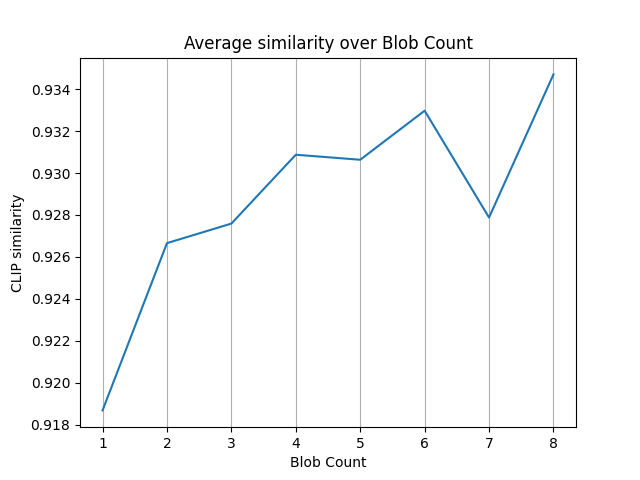
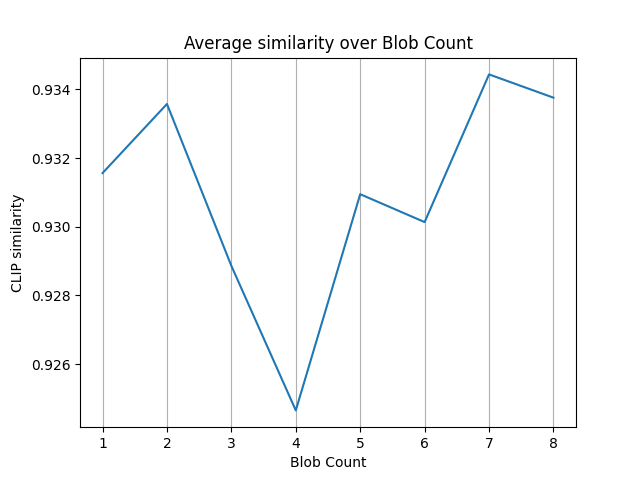
Add plot code and images

diff --git a/main.py b/main.py
@@ -454,10 +454,10 @@ class ColourPoint(Blob):
         else:
             self.colour = [255 * random.random() for i in range(3)]
 
-    def random_mutate(self, temp):
-        super().random_mutate(temp, len(self.representation))
+    def random_mutate(self, temp, blobCount):
+        super().random_mutate(temp, blobCount)
 
-        if self.colour_fixed:
+        if not self.colour_fixed:
             for i in range(len(self.colour)):
                 step = int(255 * temp * self.tempAdjust * 2 * (random.random()-0.5))
                 self.colour[i] = min(max(0,self.colour[i] + step), 255)
@@ -540,8 +540,11 @@ class LocalSearchMethod():
         self.history = []
         self.best_history = []
         self.best_representation = None
+        
+        self.best_points_iteration = []
+        self.best_points_score = []
 
-    def update_best(self, representation=None, score=None, image=None, image_path=None):
+    def update_best(self, iteration, representation=None, score=None, image=None, image_path=None):
         if score == None:
             score = self.score
 
@@ -555,10 +558,15 @@ class LocalSearchMethod():
             self.best_score = score
             self.best_history.append(image)
 
+            self.best_points_iteration.append(iteration)
+            self.best_points_score.append(score)
+
             if image_path:
                 image.save(f"{image_path}/best.png","PNG")
 
     def save_history(self, name, path):
+
+        os.makedirs(f"images/{path}", exist_ok=True)
 
         self.history[0].save(f"images/{path}/{name}_GIF.gif", 
                 save_all = True, append_images = self.history[1:], 
@@ -589,7 +597,7 @@ class SimulatedAnnealing(LocalSearchMethod):
         mutationStrategy = self.mutationStrategy
         image = mutationStrategy.render_image()
         self.score = self.scoringSystem.score_image(image)
-        self.update_best(image=image, image_path=image_path)
+        self.update_best(0, image=image, image_path=image_path)
 
         initial_score = self.best_score
 
@@ -631,7 +639,7 @@ class SimulatedAnnealing(LocalSearchMethod):
             self.history.append(image)
             
             if self.score > self.best_score:
-                self.update_best(image=image, image_path=image_path)
+                self.update_best(i, image=image, image_path=image_path)
                 print(f"{i} {self.best_score}")
             
             if image_path:
@@ -714,7 +722,7 @@ def random_nouns(size):
     print(chosen_nouns)
     return chosen_nouns
 
-def mds(strategies, name, sample_size=32):
+def mds(name, strategies, strategyNames, sample_size=32):
     # https://www.geeksforgeeks.org/machine-learning/sklearn-multi-dimensional-scaling-mds-python-implementation-from-scratch/
 
     # Load a sample dataset (e.g., the digits dataset)
@@ -745,8 +753,13 @@ def mds(strategies, name, sample_size=32):
 
     # Visualize the reduced data
     plt.figure(figsize=(8, 6))
-    plt.scatter(X_reduced[:, 0], X_reduced[:, 1], c=legend, cmap=plt.cm.get_cmap("jet", max(legend) + 1))
-    plt.colorbar(label='Encoding source', ticks=range(10))
+
+    plt.scatter(X_reduced[0:sample_size, 0], X_reduced[0:sample_size, 1], label="Text")
+
+    for (i, strategyName) in enumerate(strategyNames):
+        plt.scatter(X_reduced[(i+1) * sample_size:(i+2) * sample_size, 0], X_reduced[(i+1) * sample_size:(i+2) * sample_size, 1], label=strategyName)
+    
+    plt.legend(loc='best')
     plt.title("MDS Visualization of Random Images from Each Representations")
     plt.xlabel("MDS Dimension 1")
     plt.ylabel("MDS Dimension 2")
@@ -754,14 +767,14 @@ def mds(strategies, name, sample_size=32):
     plt.savefig(f"plots/mds--{name}.png")
     plt.show()
 
-def plot_avg_similarity_over_parameter(name, mutationStrategiesMap, parameters):
+def plot_avg_similarity_over_parameter(name, mutationStrategiesMap, parameters, samples=256):
     scoreSystem = EmbeddingsScoring("clip-ViT-B-32")
     
     means = []
 
     for p in parameters:
         mutationStrategy = mutationStrategiesMap(p)
-        sample = sample_distances(mutationStrategy, scoreSystem, samples=128, sample_size=1, temp=1)
+        sample = sample_distances(mutationStrategy, scoreSystem, samples=samples, sample_size=1, temp=1)
         means.append(statistics.mean(sample))
         print(f"{p}) mean: {statistics.mean(sample)}, stdev: {statistics.stdev(sample)}")
 
@@ -800,6 +813,74 @@ def plot_annealing_over_parameter(name, mutationStrategiesMap, parameters, itera
     plt.grid(axis = 'x')
 
     plt.savefig(f"plots/{name.replace(' ', '_')}--annealing.png")
+
+def race(name, strategies, strategyNames, prompt=None, iterations=500):
+
+    scoreSystem = EmbeddingsScoring("clip-ViT-B-32")
+
+    if prompt == None:
+        prompt = random_nouns(1)[0]
+
+    for i, strategy in enumerate(strategies):
+        scores = []
+
+        scoreSystem.set_goal_text(prompt)
+        localSearch = SimulatedAnnealing(strategy, scoreSystem)
+        localSearch.search(alpha=0.99, max_iterations=iterations)
+        localSearch.save_history(strategyNames[i], f"race/{name}-{prompt}")
+
+        plt.plot(localSearch.best_points_iteration, localSearch.best_points_score, label=strategyNames[i])
+        plt.scatter(localSearch.best_points_iteration, localSearch.best_points_score)
+    
+    plt.title(f"Comparison of annealing for word '{prompt}' after {iterations} iterations")
+    plt.xlabel(f"Iteration")
+    plt.ylabel("CLIP similarity")
+    plt.grid(axis = 'x')
+    plt.legend(loc='best')
+
+    plt.savefig(f"plots/annealing_race--{name}-{prompt}.png")
+
+def anneal_boxplot(name, strategies, strategyNames, iterations=500, sample_size=16):
+    scoreSystem = EmbeddingsScoring("clip-ViT-B-32")
+
+    nouns = random_nouns(sample_size)
+
+    strategyScores = []
+    for i, strategy in enumerate(strategies):
+        scores = []
+        for noun in nouns:
+            scoreSystem.set_goal_text(noun)
+            localSearch = SimulatedAnnealing(strategy, scoreSystem)
+            localSearch.search(alpha=0.99, max_iterations=iterations)
+            scores.append(localSearch.best_score)
+        strategyScores.append(scores)
+    
+    plt.boxplot(strategyScores, labels=strategyNames)
+
+    plt.title(f"Similarity after {iterations} iterations")
+    plt.xlabel(f"{name}")
+    plt.ylabel("CLIP similarity")
+    plt.grid(axis = 'x')
+
+    plt.savefig(f"plots/{name.replace(' ', '_')}--boxplot.png")
+
+def simmilarity_boxplot(name, strategies, strategyNames, sample_size=128):
+    scoreSystem = EmbeddingsScoring("clip-ViT-B-32")
+
+    strategyScores = []
+    for strategy in strategies:
+        sample = sample_distances(strategy, scoreSystem, samples=sample_size, sample_size=1, temp=1)
+        strategyScores.append(sample)
+    
+    plt.boxplot(strategyScores, labels=strategyNames)
+
+    plt.title(f"Comparison of similarity distributions within each representation")
+    plt.xlabel(f"{name}")
+    plt.ylabel("CLIP similarity")
+    plt.grid(axis = 'x')
+
+    plt.savefig(f"plots/{name.replace(' ', '_')}--similarity-boxplot.png")
+
 
 if __name__ == '__main__':
     command = sys.argv[1]
@@ -939,32 +1020,50 @@ if __name__ == '__main__':
 
     elif command == "blob_annealing_over_p":
         mutationStrategiesMap = lambda p: MoveBlobsStrategy(128, 128, p, white, recenter=True)
-        counts = [1, 2, 3, 4, 5, 6, 7, 8]
+        counts = [1, 6, 11, 16, 21, 26]
 
         plot_annealing_over_parameter("Blob Count", mutationStrategiesMap, counts)
 
-    elif command == "mds":
+    elif command == "compare":
+        strategyOption = sys.argv[2]
+        comparisonOption = sys.argv[3]
+
+        if strategyOption == "all":
+            strategies = [
+                RandomPixelFlipStrategy(128, 128),
+                MoveBlobsStrategy(128, 128, 4, white, recenter=True),
+                ColourStripesStrategy(128, 128, 4),
+                ColourBlobs(128, 128, 4)
+            ]
+            names = [
+                "Black-white pixels",
+                "Blobs",
+                "Stripes",
+                "Colour boundaries"
+            ]
+
+        elif strategyOption == "stripes":
+            counts = [1, 2, 3, 4, 5, 6, 7, 8]
+            strategies = [ColourStripesStrategy(128, 128, count) for count in counts]
+            names = [f"{count} stripes" for count in counts]
+
+        elif strategyOption == "blobs":
+            counts = [1, 2, 3, 4, 5, 6, 7, 8]
+            strategies = [MoveBlobsStrategy(128, 128, count, white, recenter=True) for count in counts]
+            names = [f"{count} blobs" for count in counts]
+
+        if comparisonOption == "mds":
+            mds(strategyOption, strategies, names)
         
-        strategies = [
-            RandomPixelFlipStrategy(128, 128),
-            MoveBlobsStrategy(128, 128, 5, white, recenter=True),
-            ColourStripesStrategy(128, 128, 5),
-            ColourBlobs(128, 128, 5)
-        ]
+        elif comparisonOption == "race":
+            prompt = sys.argv[4]
+            race(strategyOption, strategies, names, prompt=prompt)
 
-        mds(strategies, "all")
+        elif comparisonOption == "anneal_boxplot":
+            anneal_boxplot(strategyOption, strategies, names, iterations=500)
 
-    elif command == "stripe-mds":
-        counts = [1, 2, 3, 4, 5, 6, 7, 8]
-        strategies = [ColourStripesStrategy(128, 128, count) for count in counts]
-
-        mds(strategies, "stripe counts")
-
-    elif command == "blobs-mds":
-        counts = [1, 2, 3, 8, 16, 32, 64]
-        strategies = [MoveBlobsStrategy(128, 128, count, white, recenter=True) for count in counts]
-
-        mds(strategies, "blob counts")
+        elif comparisonOption == "similarity_boxplot":
+            simmilarity_boxplot(strategyOption, strategies, names)
 
     else:
         print("Options:\n   * anneal {alternate/increasing-blob/blob/pixel} {prompt}\n   * measure_steps {pixel/blob}")

diff --git a/convert_to_blobs.py b/convert_to_blobs.py
@@ -3,6 +3,7 @@ import numpy as np
 from PIL import Image
 
 from main import ScoringSystem, MutationStrategy, MoveBlobsStrategy, SimulatedAnnealing
+from main import white, black
 
 class IntersectionOverUnion(ScoringSystem):
     def __init__(self, image=None):
@@ -12,13 +13,83 @@ class IntersectionOverUnion(ScoringSystem):
 
     def set_target(self, image):
         self.target = np.asarray(image)
-        print(self.target.shape)   
 
-scoringSystem = IntersectionOverUnion()
+    def score_image(self, image):
+        image = np.asarray(image)
+        reduced_image = np.where(np.all(image == [255, 255, 255], axis=-1), 255, 0)
+        overlay = self.target + reduced_image
+        
+        intersection = np.sum(np.where(overlay > 255, 1, 0))
+        union        = np.sum(np.where(overlay > 0, 1, 0))
+
+        if union == 0:
+            return 0
+        return intersection / union
+
+def blobDistance(blob1, blob2):
+    radius = (blob1.radius - blob2.radius) ** 2
+    position = (blob1.x - blob2.x) ** 2 + (blob1.y-blob2.y)**2
+    return radius + position
+
+def repDistance(rep1, rep2):
+    distance = 0
+    while len(rep1) > 0 and len(rep2) > 0:
+        d = []
+        indexes = []
+        for blob in rep1:
+            distances = map(lambda b: blobDistance(blob, b), rep2)
+            d.append(min(distances))
+            indexes.append(np.argmin(distances))
+
+        distance += max(d)
+        rep1.pop(np.argmax(d))
+        rep2.pop(indexes[np.argmax(d)])
+
+    return distance
+
+
+scoreSystem = IntersectionOverUnion()
 directory = os.fsencode("data/mpeg-7")
-    
+
+image_directory = "convert_to_blobs"
+os.makedirs(f"images/{image_directory}", exist_ok=True)
+
+names = []
+representations = []
+
 for e in os.scandir(directory):
     if e.is_file():
-        image = Image.open(e.path, "r")
+        filename = os.path.basename(e.path)
+        name = filename.decode().split("-")[0]
+        try:
+            image = Image.open(e.path, "r")
+
+            if name in names:
+                continue
+            
+            scoreSystem.set_target(image)
+
+            mutationStrategy = MoveBlobsStrategy(image.width, image.height, 5, white)
         
-        scoringSystem.set_target(image)
+            localSearch = SimulatedAnnealing(mutationStrategy, scoreSystem)
+            localSearch.search(alpha=0.995, satisfying_score=0.9, max_iterations=1)
+
+            localSearch.best_history[-1].save(f"images/{image_directory}/{filename.decode()}", "PNG")
+
+            representations.append(localSearch.best_representation)
+            names.append(name)
+        except:
+            print(f"error: {filename}")
+
+    if len(names) > 5:
+        break
+
+distanceMatrix = []
+for rep1 in representations:
+    distances = []
+    for rep2 in representations:
+        distances.append(repDistance(rep1, rep2))
+
+    distanceMatrix.append(distances)
+
+print(distanceMatrix)
